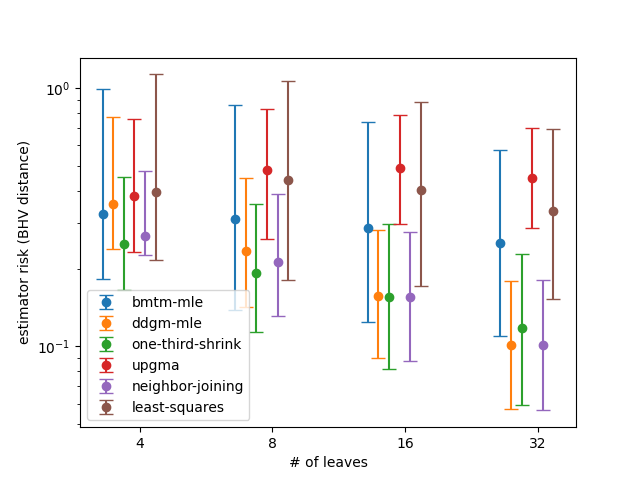
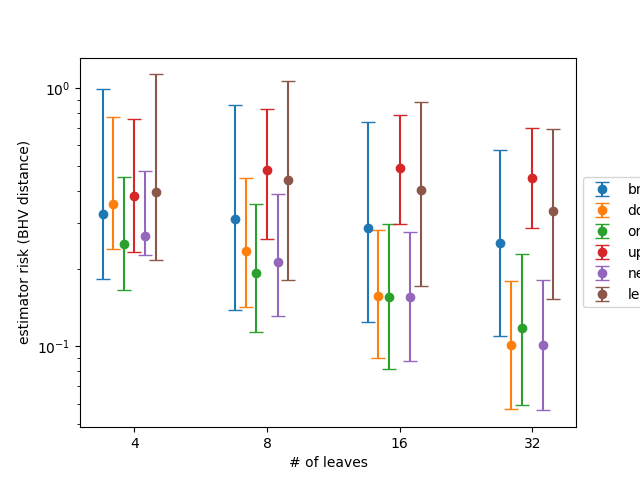
update plots

diff --git a/experiments/step4_plot_metrics.py b/experiments/step4_plot_metrics.py
@@ -16,36 +16,47 @@ frob_variances_dict = metrics_dict['frob_variances_dict']
 nleaves_list = config.get_sampling_config().get('nleaves_list')
 estimators = config.get_reconstruction_config().get('estimators')
 
-plot_manager = PlotManager(config, estimators, nleaves_list)
 
 # === FIGURE 9 ===
+plot_manager = PlotManager(config, estimators, nleaves_list)
 plot_manager.plot_errorbars(
     frob_errors_dict, 
     ylabel="estimator risk (Frobenius squared)", 
     filename="frob_errors.png",
-    yscale='log'
+    yscale='log',
+    legend_right=True
 )
 # === FIGURE 10 ===
+estimators_no_mxshrink = [e for e in estimators if e != "mxshrink"]
+plot_manager = PlotManager(config, estimators_no_mxshrink, nleaves_list)
 plot_manager.plot_errorbars(
     bhv_distances_dict, 
     ylabel="estimator risk (BHV distance)", 
     filename="bhv_distances.png",
-    yscale='log'
+    yscale='log',
+    legend_right=True
 )
 
 # === FIGURE 8 ===
-plot_manager = PlotManager(config, ["bmtm-mle", "ddgm-mle"], nleaves_list)
+estimators_fig8 = ["bmtm-mle", "ddgm-mle"]
+plot_manager = PlotManager(config, estimators_fig8, nleaves_list)
 plot_manager.plot_errorbars(
     frob_biases_dict, 
     ylabel="estimator bias (Frobenius squared)", 
-    filename="frob_biases.png",
+    filename="fig8_biases.png",
     yscale='log'
 )
 plot_manager.plot_errorbars(
     frob_variances_dict, 
     ylabel="estimator variance (Frobenius squared)", 
-    filename="frob_variance.png",
+    filename="fig8_variance.png",
     yscale='log'
+)
+plot_manager.plot_errorbars(
+    frob_variances_dict, 
+    ylabel="estimator risk (Frobenius squared)", 
+    filename="fig8_risk.png",
+    yscale='linear'
 )
 # plot_manager.plot_errorbars(
 #     frob_variances_dict, 

diff --git a/experiment_utils/plot_manager.py b/experiment_utils/plot_manager.py
@@ -17,8 +17,6 @@ class PlotManager:
     def _compute_errorbars(self, errors_dict):
         errorbars_dict = dict()
         for e_ix, estimator in enumerate(self.estimators):
-            if estimator == "mxshrink":
-                continue
             means = np.zeros(self.nsizes)
             error_mat = np.zeros((2, self.nsizes))
             for x, nleaves in enumerate(self.nleaves_list):
@@ -32,21 +30,22 @@ class PlotManager:
             errorbars_dict[estimator] = (means, error_mat)
         return errorbars_dict
 
-    def plot_errorbars(self, errors_dict, ylabel, filename, yscale='linear'):
+    def plot_errorbars(self, errors_dict, ylabel, filename, yscale='linear', legend_right=False):
         errorbars_dict = self._compute_errorbars(errors_dict)
         jitter = 0.08
         plt.clf()
         xs = np.arange(self.nsizes)
         for e_ix, estimator in enumerate(self.estimators):
-            if estimator == "mxshrink":
-                continue
             means = errorbars_dict[estimator][0]
             errors = errorbars_dict[estimator][1]
             plt.errorbar(xs + e_ix * jitter, means, yerr=errors, label=estimator, fmt="o", capsize=5)
 
         # === OTHER ===
-        plt.legend()
         plt.yscale(yscale)
+        if legend_right:
+            plt.legend(loc='center left', bbox_to_anchor=(1, 0.5))
+        else:
+            plt.legend()
 
         # === AXIS LABELS ===
         plt.xticks(xs + jitter * self.num_estimators / 2, self.nleaves_list)
